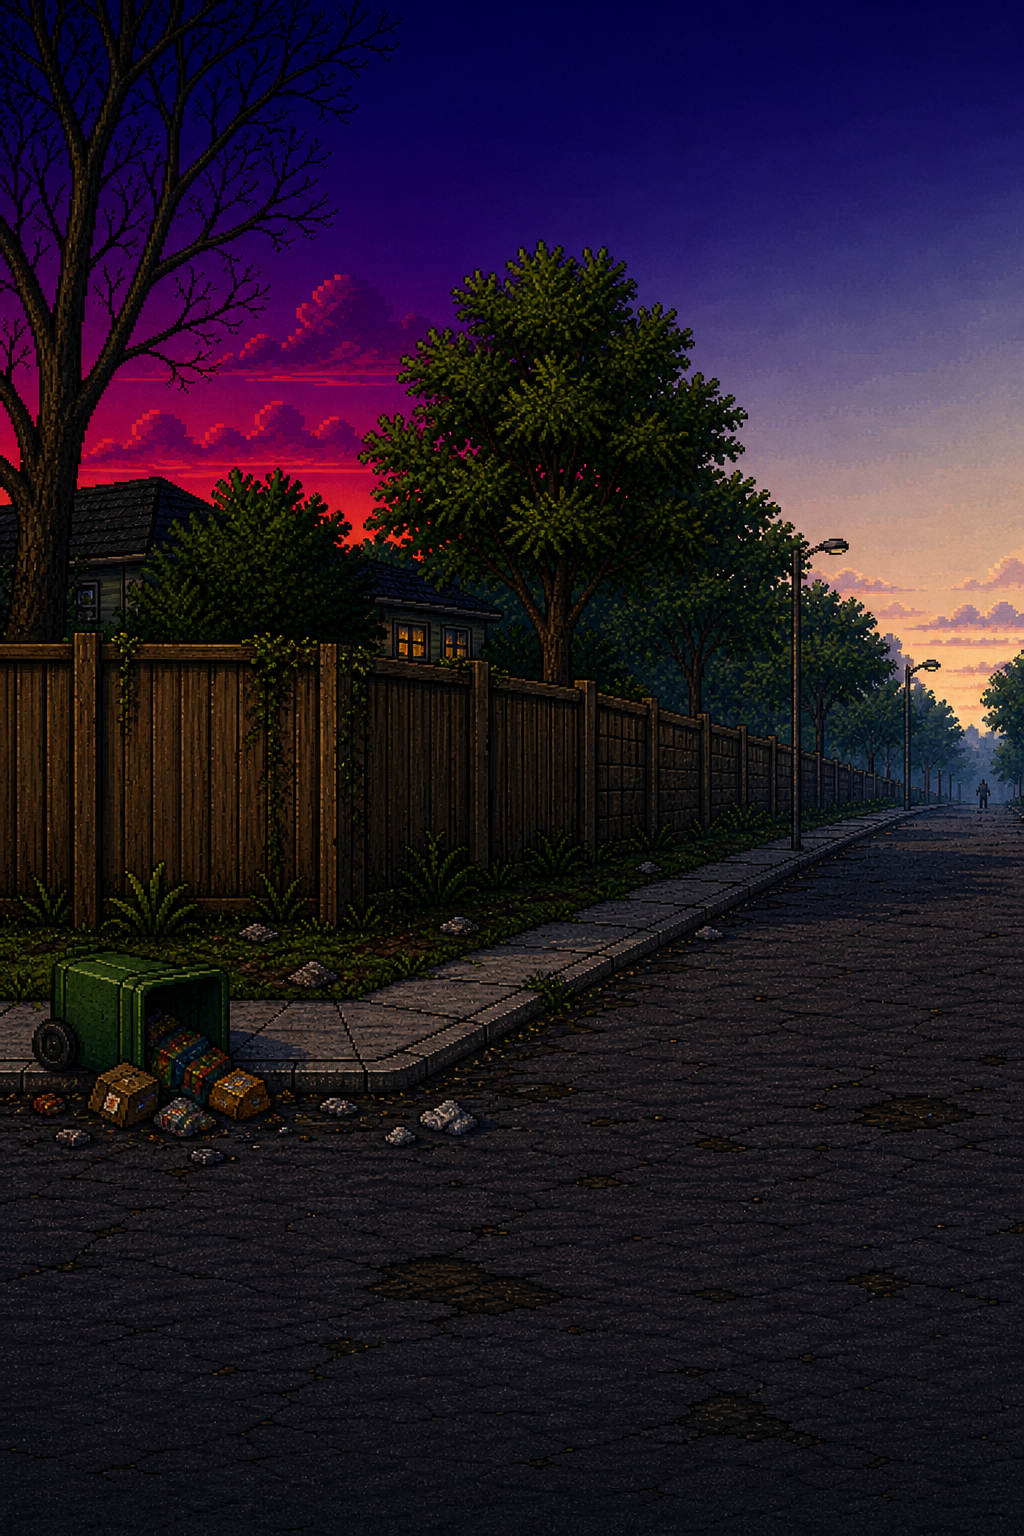
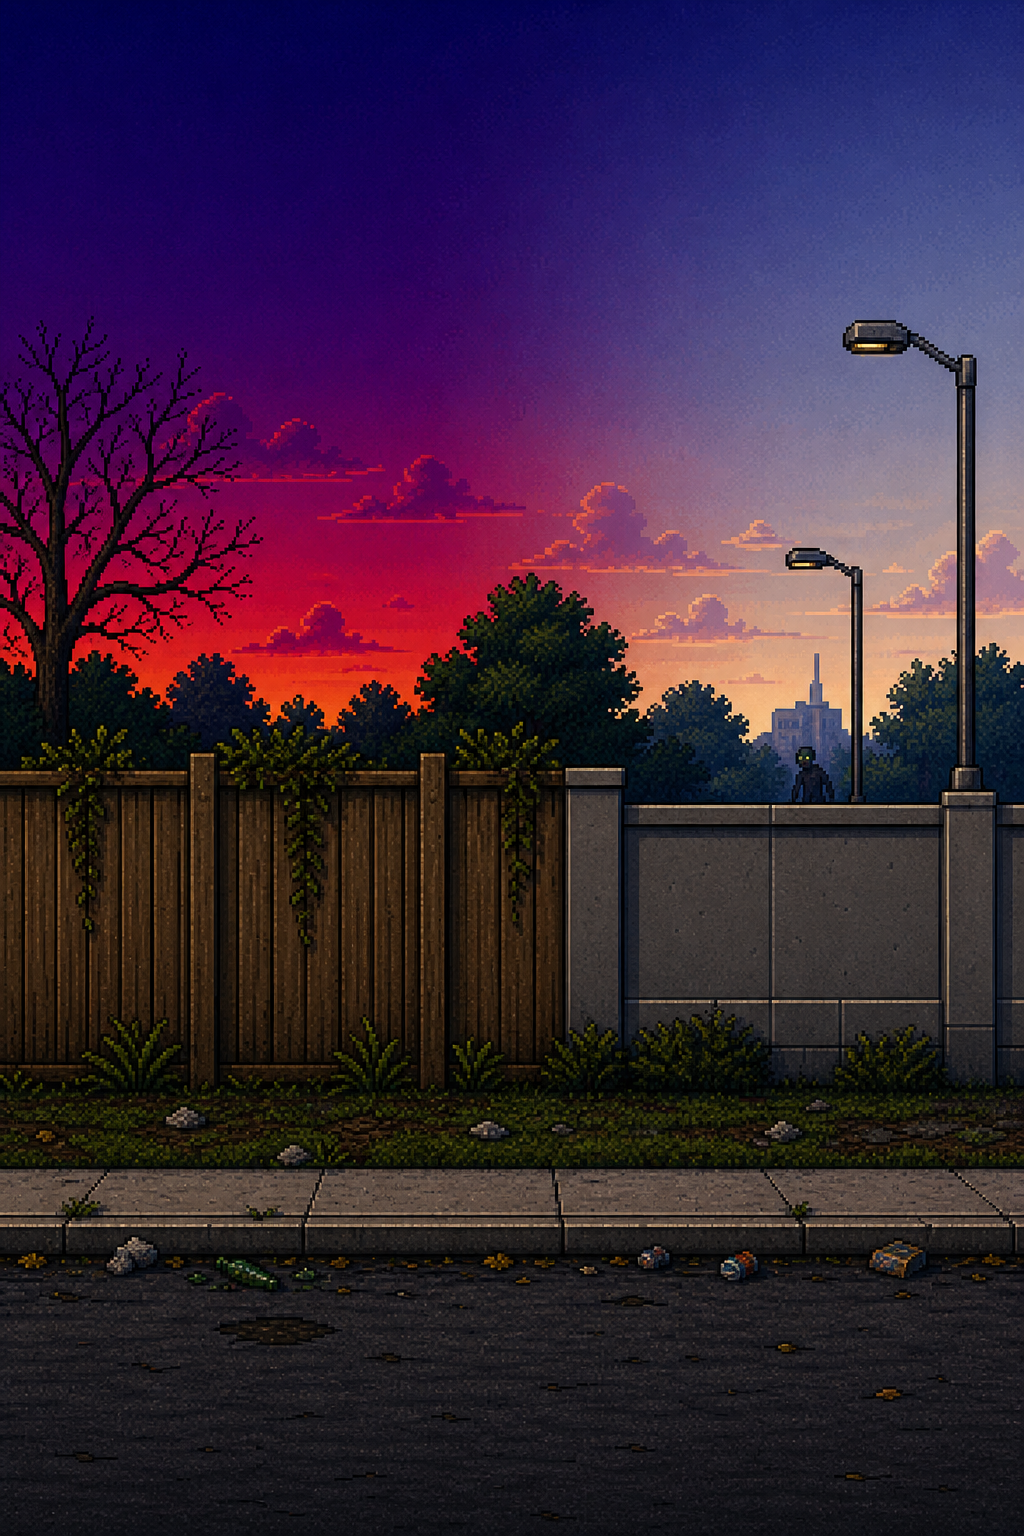
zombies: v0.2.5 - regenerate all 6 bridges with explicit y-coord prompts
The v0.2.2 bridges were generated without strong constraints on
ground-element positions. Result: each bridge had its sidewalk and
curb at a different y position from the adjacent scenes, and from
each other. Player walking across bridges saw the ground step
up/down inconsistently.

Regenerated all 6 bridges in the Cx Zombies Art ChatGPT project
with EXPLICIT y-coord constraints in the prompt:
- Sky / sunset gradient: top 0% to 55%
- Mid-elements (buildings, trees, fences): 35% to 78%
- SIDEWALK: 78% to 88% (continuous flat strip across whole frame)
- CURB LINE: exactly 88% (one clear horizontal line)
- ASPHALT ROAD: 88% to 100% (very bottom)

These percentages match SCENE_GROUND_LINES (0.88-0.92 in v0.2.4),
so player walks at consistent y across the entire level.

Per-bridge content:
- bridge-00-01: picket-to-wood-rail fence, fountain glimpse left,
  Craftsman house right, pre-dawn purple-orange sky
- bridge-01-02: tree anchor, picket-to-wood-plank fence, mailbox,
  tipped recycle bin, pre-dawn purple-pink sky
- bridge-02-03: wood fence left, concrete wall right, streetlights,
  distant skyline + zombie, sky purple-magenta to dawn-blue
- bridge-03-04: modern Lamar Union building, fallen scooter,
  distant zombie, hint of rainbow mural on right, dawn sky
- bridge-04-05: rainbow mural left, colorful storefronts emerging,
  string lights, zombie shambling, sky dawn-orange to overcast
- bridge-05-06: Lamar storefronts to ALAMO marquee + HighBall,
[…]

diff --git a/zombies/index.html b/zombies/index.html
@@ -3,7 +3,7 @@
 <head>
 <meta charset="UTF-8" />
 <meta name="viewport" content="width=device-width, initial-scale=1.0, user-scalable=no, viewport-fit=cover" />
-<meta name="version" content="0.2.4" />
+<meta name="version" content="0.2.5" />
 <title>Cx Zombies — BookHockeys</title>
 
 <meta name="description" content="Cx Zombies — a side-scrolling zombie shooter. Walk South Lamar with Ice Poseidon, kill zombies, survive to the Alamo Drafthouse boss arena." />
@@ -63,7 +63,7 @@
 </script>
 
 <link href="https://fonts.googleapis.com/css2?family=VT323&family=Luckiest+Guy&display=swap" rel="stylesheet">
-<link rel="stylesheet" href="css/style.css?v=0.2.4">
+<link rel="stylesheet" href="css/style.css?v=0.2.5">
 </head>
 <body>
 
@@ -242,12 +242,12 @@
 
 <!-- Footer URL caption + version pill -->
 <div class="game-url">bookhockeys.com/zombies</div>
-<div class="game-version">Cx Zombies v0.2.4</div>
+<div class="game-version">Cx Zombies v0.2.5</div>
 
 <!-- Cookies link (clears localStorage consent + re-shows banner) -->
 <a href="#" class="cookies-link" id="cookies-link">Cookies</a>
 
-<script src="js/main.js?v=0.2.4"></script>
+<script src="js/main.js?v=0.2.5"></script>
 
 </body>
 </html>

diff --git a/zombies/js/main.js b/zombies/js/main.js
@@ -1,5 +1,19 @@
 /*
- * Cx Zombies — boot + game loop (v0.2.4).
+ * Cx Zombies — boot + game loop (v0.2.5).
+ *
+ * v0.2.5 — bridge images REGENERATED with explicit y-coord prompts.
+ *   The v0.2.2 bridges had mismatched ground lines (sidewalks/curbs
+ *   at different y positions than the adjacent scenes), creating
+ *   visible "step up/down" effects when the player walked across
+ *   bridges. New bridges painted with EXPLICIT y-coord constraints:
+ *   - Sky: 0% to 55% of canvas
+ *   - Mid-elements: 35% to 78%
+ *   - Sidewalk: 78% to 88% (continuous flat strip)
+ *   - Curb line: exactly 88%
+ *   - Asphalt: 88% to 100% (bottom)
+ *   This matches SCENE_GROUND_LINES (~88-92% across all scenes), so
+ *   the player walks at a consistent y across the entire level.
+ *   No code changes — only art replacement.
  *
  * v0.2.4 — second feedback patch:
  *   - SCENE_GROUND_LINES bumped from 0.78-0.85 → 0.88-0.93 so Ice's
